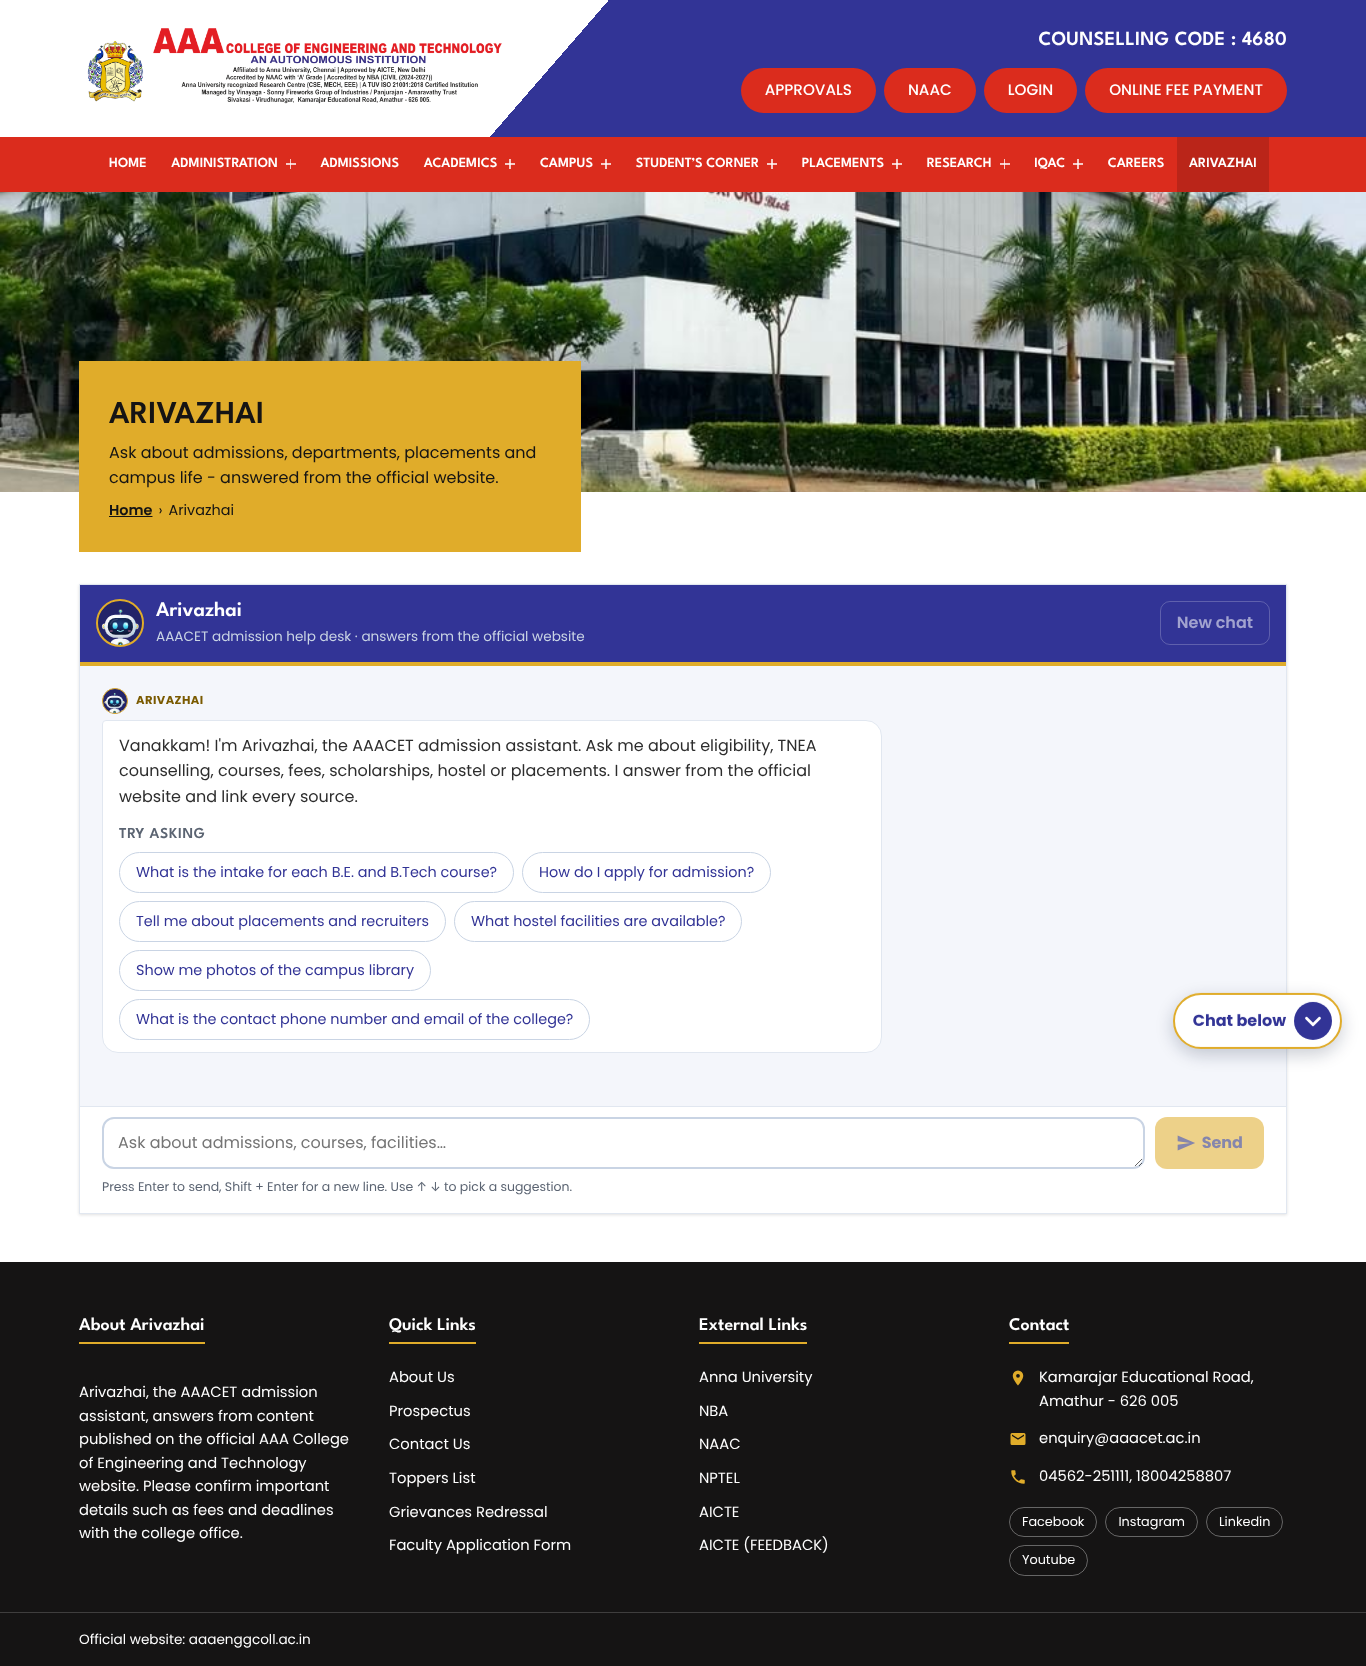
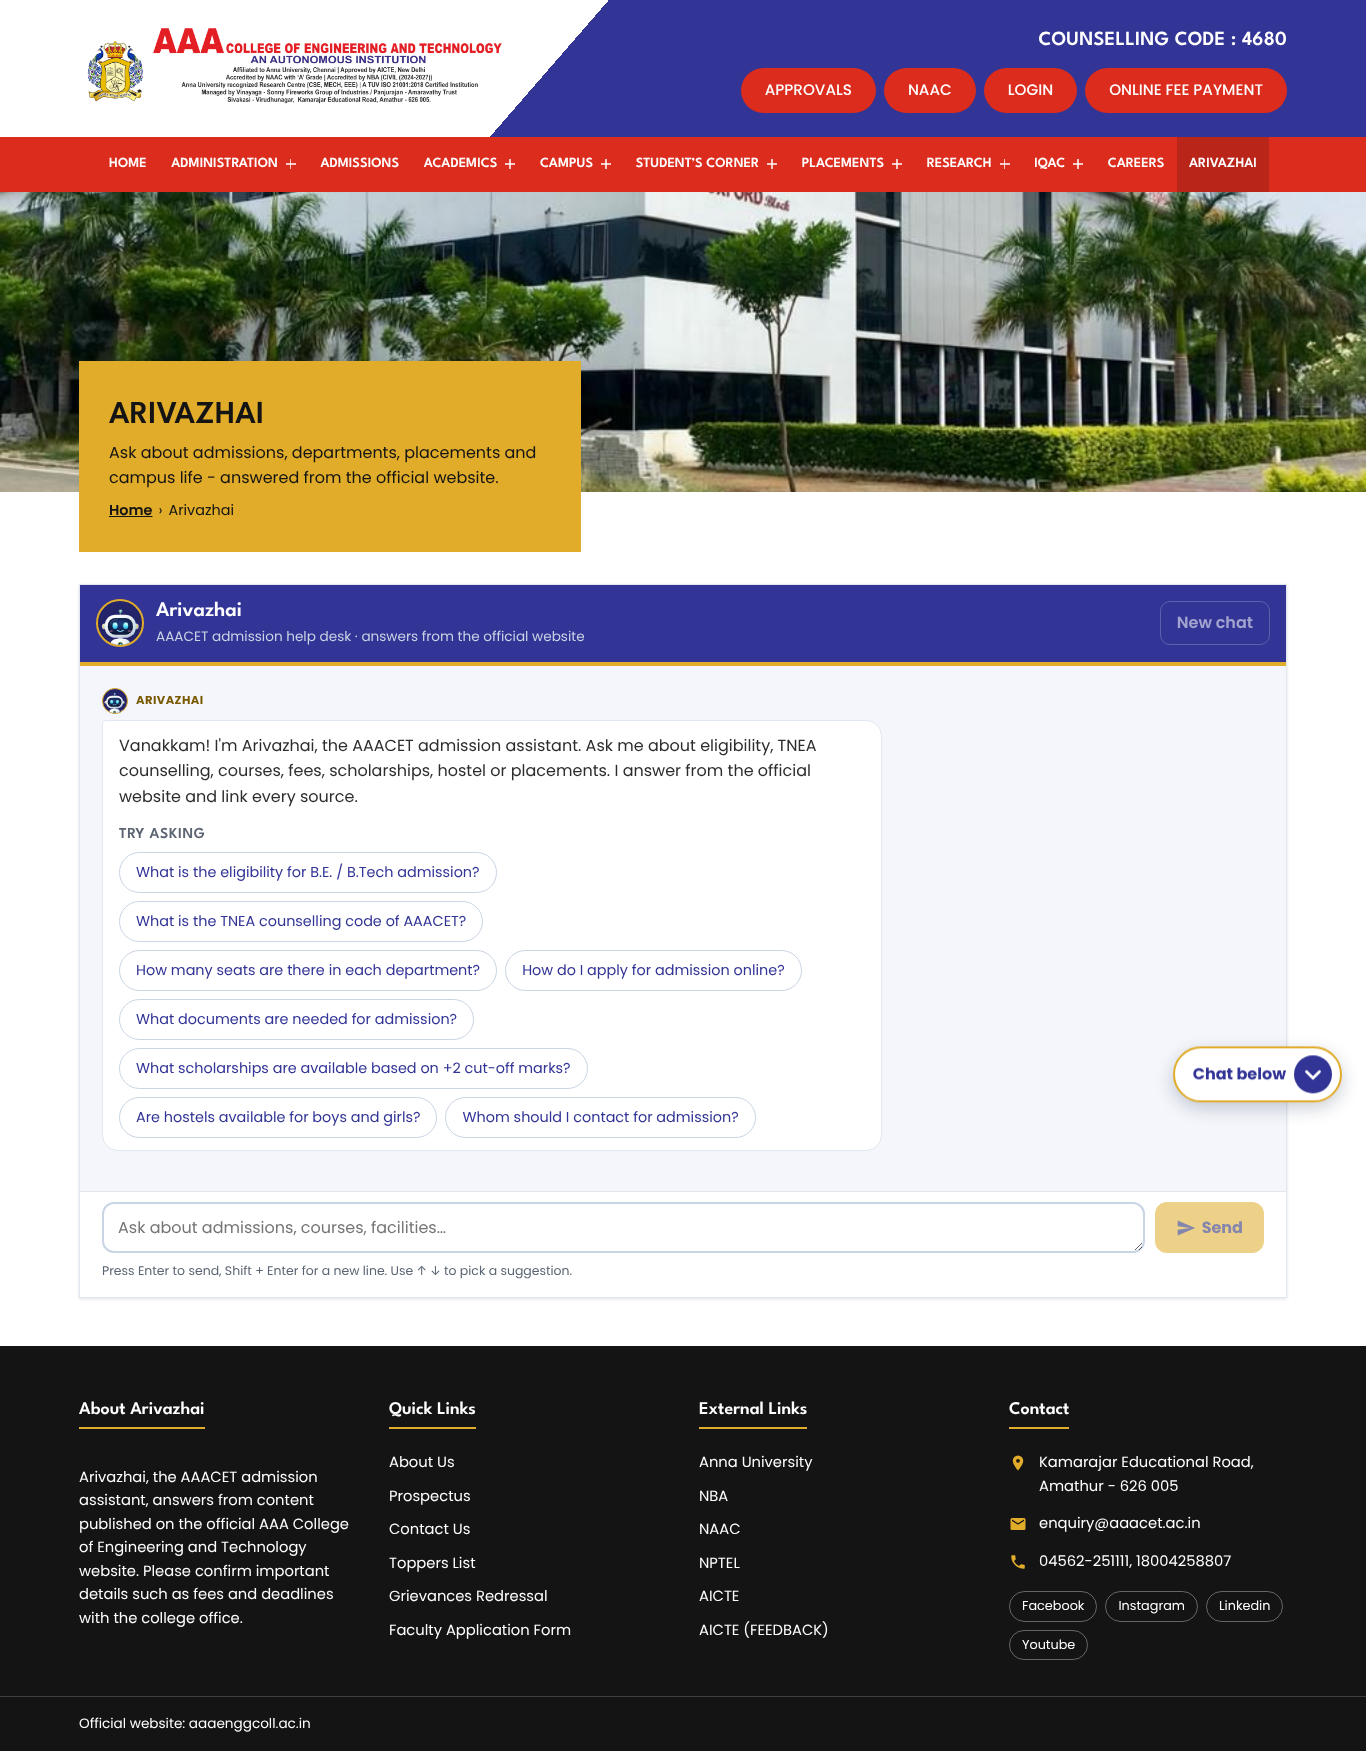
Parents' admission questions as presets; tighter extractive answers
- Suggested questions are now what parents ask most before admission:
  eligibility, TNEA counselling code, seats per department, applying
  online, documents, +2 cut-off scholarships, hostels, admission contacts.
  Each is in the retrieval and answer evals.
- Extractive answers quote each fact once: a table with department links
  and the same table without them, and a list repeated on one line.
- A line cut by the length budget no longer counts as shown, so a later
  section can still quote it (the college address).
- When the best section is titled after most of the question, a section
  of another web page titled after none of its words is left out
  (grievances for "documents needed"); PDFs and the site facts are judged
  on their text.
- A "how many" question keeps only sections naming what its table
  matched on ("intake"), not a hostel that mentions seats.
- The site header/footer facts give only the line asked about
  ("COUNSELLING CODE: 4680").

Claude-Session: https://claude.ai/code/session_01NVahJL1p12jphadNDtFLf6

Changed region(s): [[0.0, 0.0, 1.0, 0.9676], [0.8609, 0.593, 0.9839, 0.6242]]

diff --git a/frontend/src/components/SuggestedQuestions.tsx b/frontend/src/components/SuggestedQuestions.tsx
@@ -1,14 +1,16 @@
 import { useId } from "react";
 
-// Worded the way the website words things; each is in backend/eval/questions_aaacet.jsonl,
-// so `make eval` checks it against the real knowledge base.
+// What parents ask most before admission, worded the way the website words things. Each is in
+// backend/eval/questions_aaacet.jsonl, so `make eval` checks it against the real knowledge base.
 export const DEFAULT_SUGGESTIONS = [
-  "What is the intake for each B.E. and B.Tech course?",
-  "How do I apply for admission?",
-  "Tell me about placements and recruiters",
-  "What hostel facilities are available?",
-  "Show me photos of the campus library",
-  "What is the contact phone number and email of the college?",
+  "What is the eligibility for B.E. / B.Tech admission?",
+  "What is the TNEA counselling code of AAACET?",
+  "How many seats are there in each department?",
+  "How do I apply for admission online?",
+  "What documents are needed for admission?",
+  "What scholarships are available based on +2 cut-off marks?",
+  "Are hostels available for boys and girls?",
+  "Whom should I contact for admission?",
 ];
 
 interface Props {

diff --git a/frontend/e2e/assistant.spec.ts b/frontend/e2e/assistant.spec.ts
@@ -28,7 +28,7 @@ test("welcome screen", async ({ page }, info) => {
   await page.goto("/");
   await expect(page.getByRole("heading", { level: 1, name: "Arivazhai" })).toBeVisible();
   await expect(page.getByText(/Vanakkam! I'm Arivazhai, the AAACET admission assistant/)).toBeVisible();
-  await expect(page.getByRole("button", { name: "How do I apply for admission?" })).toBeVisible();
+  await expect(page.getByRole("button", { name: "How do I apply for admission online?" })).toBeVisible();
   await expectNoHorizontalScroll(page);
   await momentGone(page);
   await page.screenshot({ path: join(SHOTS, `${info.project.name}-welcome.png`), fullPage: true });

diff --git a/backend/rag/llm/client.py b/backend/rag/llm/client.py
@@ -7,11 +7,13 @@ import os
 import re
 from dataclasses import dataclass
 from typing import Protocol
+from urllib.parse import urlsplit
 
 from rag.chunking.tokens import count_tokens
 from rag.index.bm25 import tokenize
 from rag.llm.prompts import SYSTEM_PROMPT
 from rag.models import RetrievedChunk
+from rag.utils import strip_md_links
 
 log = logging.getLogger(__name__)
 
@@ -290,14 +292,33 @@ class ExtractiveAnswerer:
         if not items:
             return ""
         first = share(items[0])
+
+        def title_words(parts: list[tuple[int, RetrievedChunk]]) -> set[str]:
+            return q & set(tokenize(chunk_title_text(parts[0][1])))
+
+        # "documents needed for admission" leads with "Required Documents", titled after most of the
+        # question (not one lucky word, as "department statistics" for a PhD question): a section of
+        # another page titled after none of its words ("Grievances ...") only shares a word in passing
+        by_title = sum(self.term_weight(t) for t in title_words(items[0])) >= 0.5 * total
+        lead = items[0][0][1].url
+
+        def words_of(parts: list[tuple[int, RetrievedChunk]]) -> set[str]:
+            return set(tokenize(chunk_title_text(parts[0][1]))).union(*(set(tokenize(p.text)) for _, p in parts))
+
+        # "how many seats in each department" is answered by the intake table: a later section must name
+        # most of what made the first one match, not only the question's other words ("seats" in a hostel)
+        counted = q & words_of(items[0]) if q & _COUNT_WORDS else set()
+        counted_weight = sum(self.term_weight(t) for t in counted)
         keep_row = self._row_filter(q, [part for parts in items[:max_sections + 2] for _, part in parts])
         blocks: list[str] = []
         seen: set[str] = set()
         for n, parts in enumerate(items):
             if len(blocks) >= max_sections:
                 break
-            if n and share(parts) < 0.75 * first:  # as relevant as the best one, however little that is
-                continue
+            if n and (share(parts) < 0.75 * first or by_title and parts[0][1].url != lead and not title_words(parts)
+                      and _titled_page(parts[0][1])
+                      or counted and sum(self.term_weight(t) for t in counted & words_of(parts)) < 0.5 * counted_weight):
+                continue  # as relevant as the best one, however little that is
             budget = budgets[min(len(blocks), len(budgets) - 1)]
             lines = self._section_quote(parts, q, budget, max_table_rows if not blocks else 15, seen, keep_row)
             if lines and keep_row is not None and blocks and not any(line.startswith("|") for line in lines) \
@@ -358,10 +379,14 @@ class ExtractiveAnswerer:
             out.append("")
             rows = []
 
+        # the site's header and footer are a list of unrelated facts: only the lines the question is about
+        order: list[str] = []
+        facts_only = anchor.page_title.startswith(SITE_CHROME_TITLE)
+        asked = q - {"aaacet", "aaa", "college"}  # every line there is about the college
         for _, part in parts:
             for raw in part.text.splitlines():
                 line = raw.strip()
-                if not line:
+                if not line or facts_only and not asked & set(tokenize(strip_md_links(line))) and not line.startswith("#"):
                     continue
                 heading = re.match(r"^#{1,6}\s+(.+)$", line)
                 if heading:
@@ -369,17 +394,20 @@ class ExtractiveAnswerer:
                     text = heading.group(1).strip()
                     label = "" if text in anchor.heading_path else text
                     continue
-                key = re.sub(r"\W+", "", line.lower())  # "PhD" and "Ph.D." copies of one paragraph are one
-                if key in seen:  # overlap between the pieces of a split section, or the same text on two pages
-                    continue
-                seen.add(key)
+                # "PhD" and "Ph.D." copies of one paragraph are one, and so are a table with links and without
+                key = re.sub(r"\W+", "", strip_md_links(line).lower())
+                if key in seen or len(key) > 60 and key in "".join(order):
+                    continue  # overlap between pieces of a split section, the same text on two pages, a list run together
                 if " | " in line:
+                    seen.add(key)
                     rows.append(line)
                     continue
                 flush()
                 if sum(1 for x in out if x.startswith("- ")) >= budget:
-                    more = True
+                    more = True  # not shown here, so still free to be shown by a later section
                     continue
+                seen.add(key)
+                order.append(key)
                 line = re.sub(r"^[-*•]\s+", "", line)
                 if len(line) > max_chars:
                     cut = line.rfind(". ", 0, max_chars)
@@ -450,6 +478,13 @@ def source_label(chunk: RetrievedChunk, q: set[str] | None = None) -> str:
     return label
 
 
+SITE_CHROME_TITLE = "College contact details"  # the document holding the website's header and footer facts
+
+
+def _titled_page(chunk: RetrievedChunk) -> bool:
+    """A web page whose title says what it is about: not a PDF ("26 27 ODD", a file name) and not the
+    list of header and footer facts."""
+    return not urlsplit(chunk.url).path.lower().endswith(".pdf") and not chunk.page_title.startswith(SITE_CHROME_TITLE)
 # words of a question asking for one value of a row: "how many seats in CSE", "intake of IT"
 _COUNT_WORDS = {"intake", "many", "number", "count", "total", "strength"}
 _CELL_LABEL_RE = re.compile(r"^\s*[^:|]{1,60}:\s")

diff --git a/backend/tests/test_answers.py b/backend/tests/test_answers.py
@@ -505,6 +505,54 @@ def test_a_count_question_about_one_department_gets_its_row():
     assert "CIVIL" in faculty  # not a count question: tables stay whole
 
 
+def test_extractive_answers_quote_each_fact_once_and_only_sections_about_the_question():
+    from rag.llm.client import ExtractiveAnswerer
+
+    def section(cid, url, title, path, text):
+        return RetrievedChunk(chunk_id=cid, doc_id=url, url=url, page_title=title, heading_path=path, text=text, score=1)
+
+    # the same intake table on two pages, with department links on one: quoted once
+    about = section("ab", "https://c.example/about-college/", "About college", ["B.E.COURSES"],
+                    "Department: CIVIL ENGINEERING | INTAKE: 60\nDepartment: MECHANICAL ENGINEERING | INTAKE: 60")
+    admission = section("ad", "https://c.example/admission/", "Admission", ["B.E.COURSES"],
+                        "Department: [CIVIL ENGINEERING](https://c.example/civil/) | INTAKE: 60\n"
+                        "Department: [MECHANICAL ENGINEERING](https://c.example/mech/) | INTAKE: 60")
+    # a page that shares the question's other words ("seats" for seating) without its table's words
+    hostel = section("h", "https://c.example/hostels/", "AAA Hostels", [],
+                     "Each room has seats and tables for every student staying in the hostel.")
+    seats = ExtractiveAnswerer().answer("How many seats are there in each department? intake", [about, admission, hostel])
+    assert seats.count("CIVIL ENGINEERING") == 1 and "Hostels" not in seats
+
+    # a section of another page titled after none of the question's words is left out...
+    documents = section("d", "https://c.example/admission/", "Admission", ["Required Documents"],
+                        "- Transfer Certificate\n- Community Certificate")
+    grievances = section("g", "https://c.example/grievances/", "Grievances Redressal", ["Complaints"],
+                         "- Refusing admission or withholding a document deposited for admission")
+    calendar = section("p", "https://c.example/up/26-27-ODD.pdf", "26 27 ODD", [],
+                       "Every admission document is verified in the first week")
+    answer = ExtractiveAnswerer().answer("What documents are needed for admission?", [documents, grievances, calendar])
+    assert "Transfer Certificate" in answer and "Refusing admission" not in answer
+    assert "first week" in answer  # ... but a PDF's title is its file name, so it is judged on its text
+
+    # a list repeated run together on one line is quoted once
+    merit = section("m", "https://c.example/admission/", "Admission", ["Scholarship"],
+                    "- Scholarships for Meritorious students\n- Scholarships for children of single parent\n"
+                    "- Scholarships for school toppers\n"
+                    "- Scholarships for Meritorious students - Scholarships for children of single parent - "
+                    "Scholarships for school toppers")
+    assert ExtractiveAnswerer().answer("What scholarships are available?", [merit]).count("school toppers") == 1
+
+
+def test_the_site_header_and_footer_facts_give_only_the_line_asked_about():
+    from rag.llm.client import SITE_CHROME_TITLE, ExtractiveAnswerer
+
+    chrome = RetrievedChunk(chunk_id="c", doc_id="home", url="https://c.example/", score=1, heading_path=[],
+                            page_title=f"{SITE_CHROME_TITLE} (official website header and footer)",
+                            text="COUNSELLING CODE : 4680\nPhone: 04562-251111\n[APPROVALS](https://c.example/approvals/)")
+    answer = ExtractiveAnswerer().answer("What is the TNEA counselling code of AAACET?", [chrome])
+    assert "4680" in answer and "04562" not in answer and "APPROVALS" not in answer
+
+
 def test_photo_questions_show_the_photos_a_section_links_to(services):
     import asyncio
 
